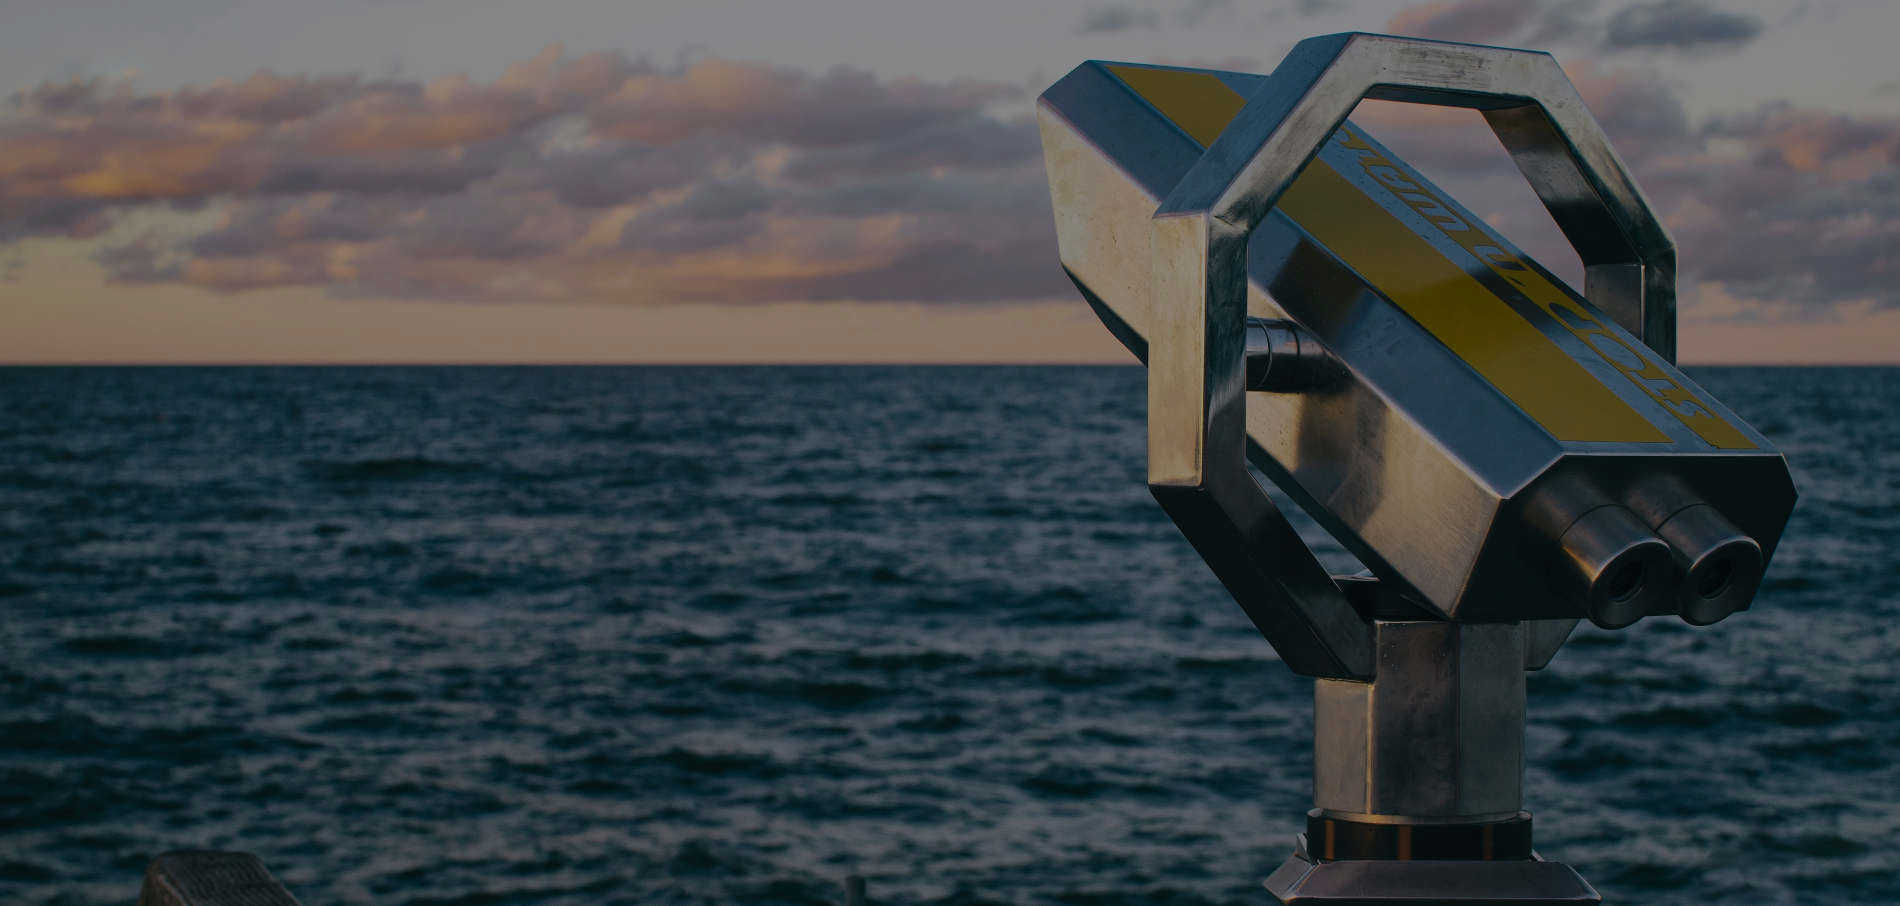
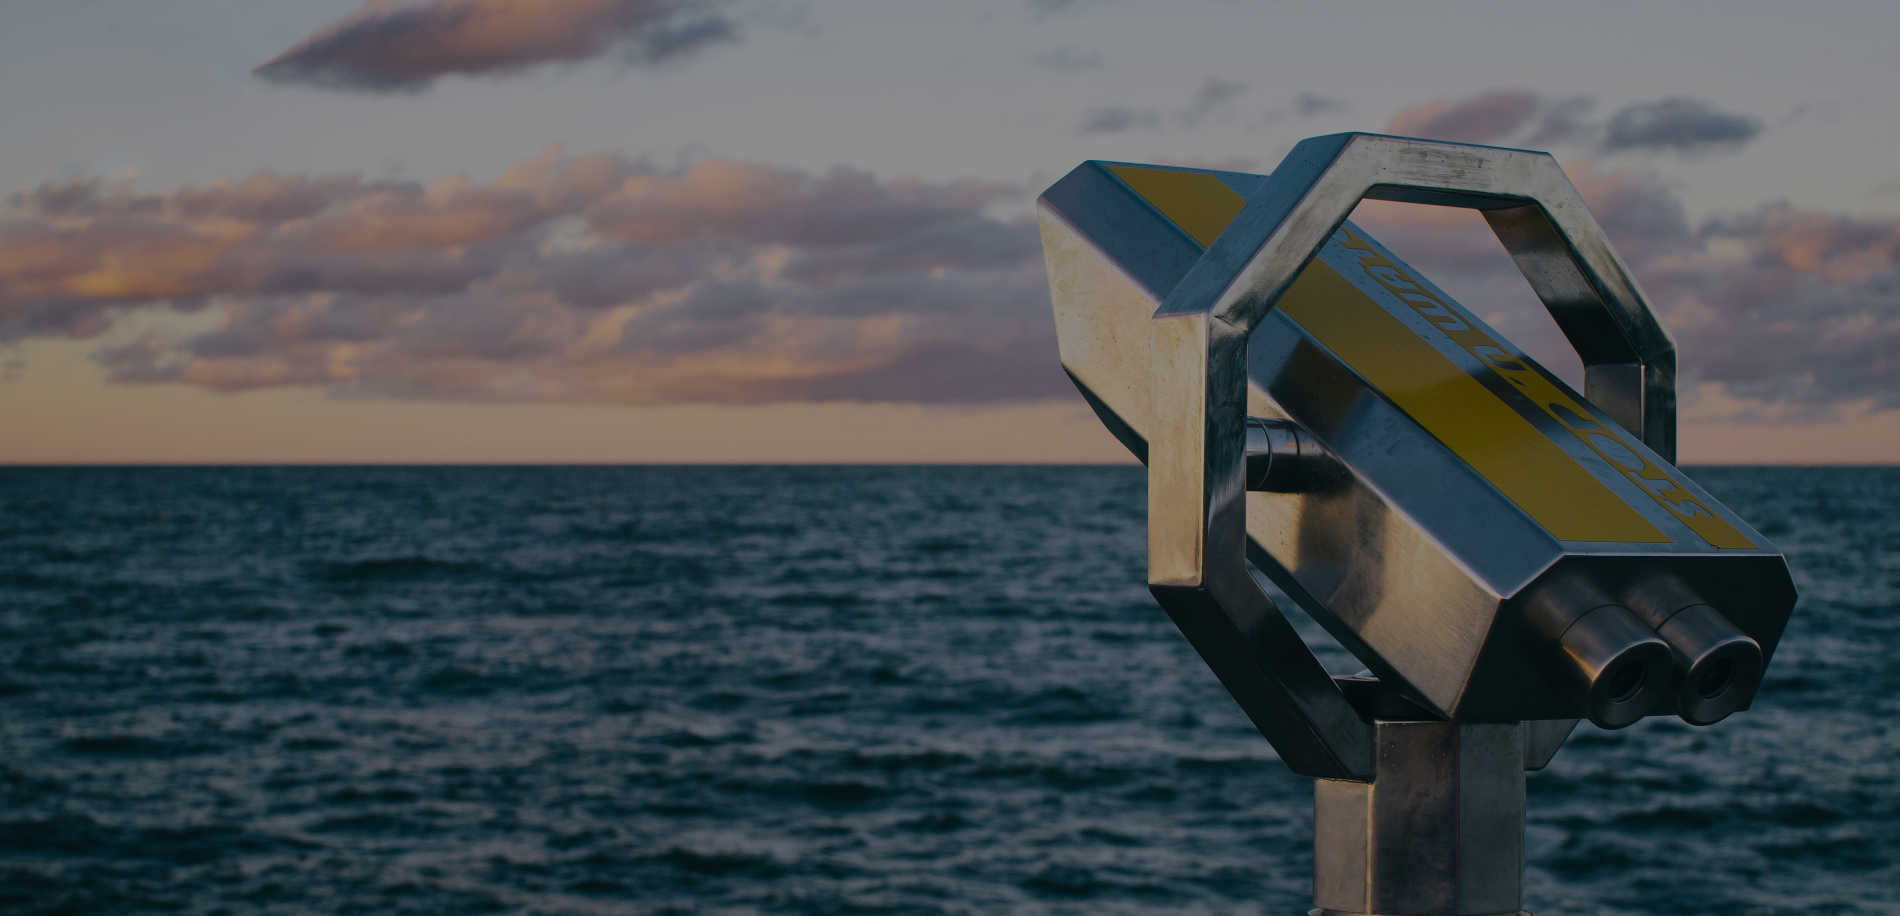
Update background image

diff --git a/bitebybits/blog/templates/blog/about.html b/bitebybits/blog/templates/blog/about.html
@@ -5,7 +5,7 @@
     {% block page_header %}
     <!-- Page Header -->
     <!-- Set your background image for this header on the line below. -->
-    <header class="intro-header" style="background-image: url('{% static "img/about-bg.jpg" %}')">
+    <header class="intro-header" style="background-image: url('{% static "img/sticker-mule-189207.jpg" %}')">
         <div class="container">
             <div class="row">
                 <div class="col-lg-8 col-lg-offset-2 col-md-10 col-md-offset-1">
